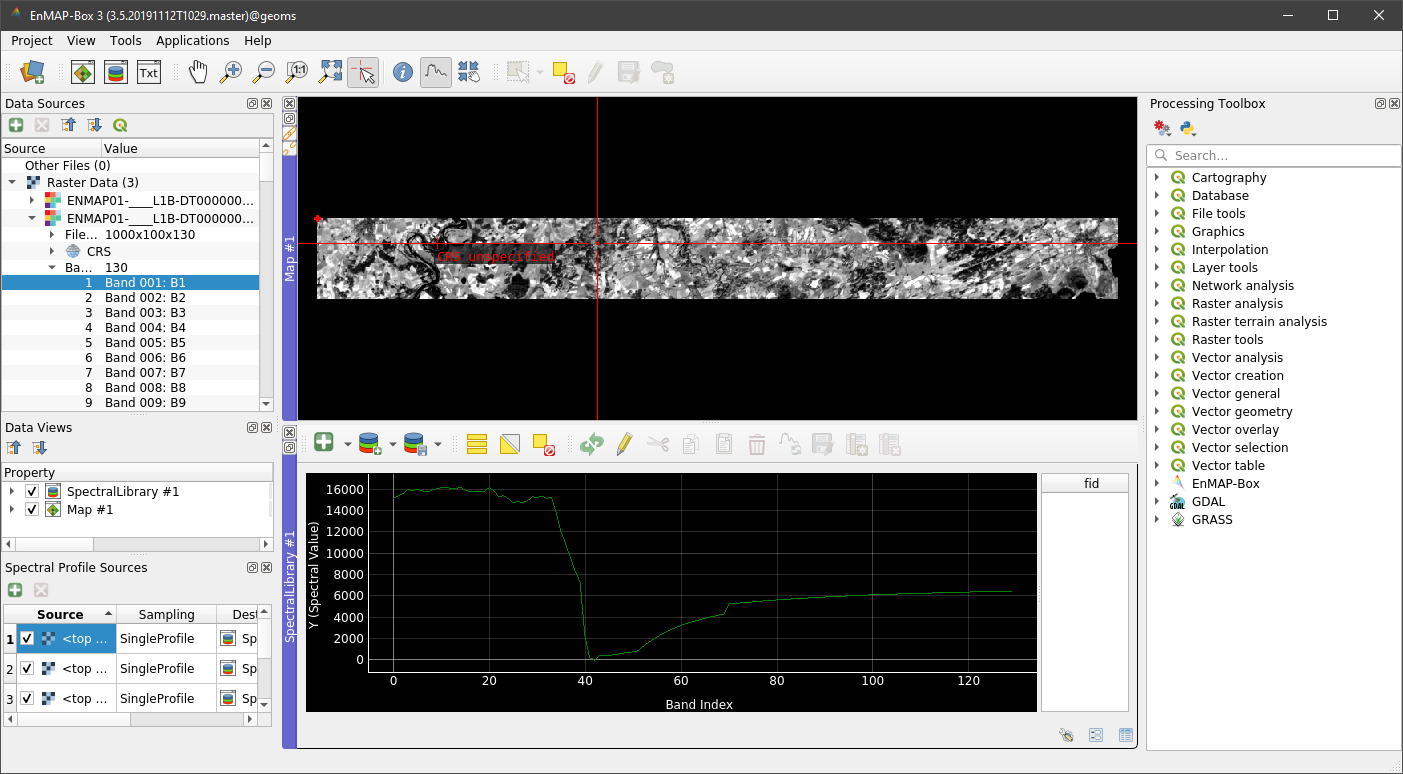
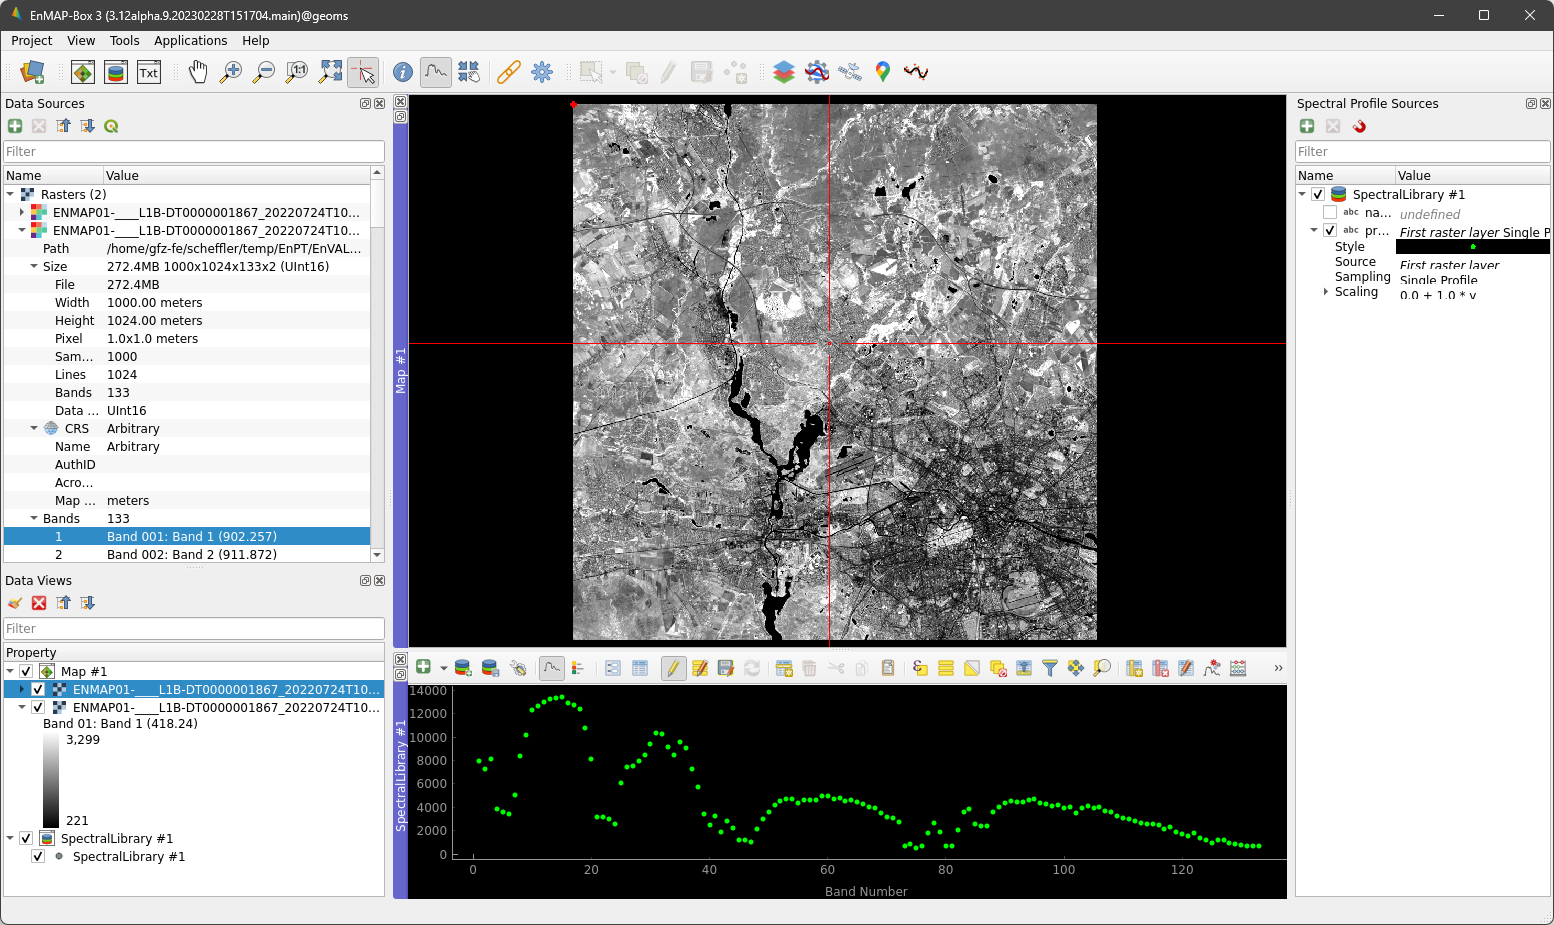
Update section about L1B data inspection.

diff --git a/docs/tutorial.rst b/docs/tutorial.rst
@@ -69,13 +69,15 @@ general handling instructions regarding the EnMAP-Box_ are given in `Exercise A 
 .. _`Exercise A of the EnMAP-Box tutorials`: https://enmap-box.readthedocs.io/en/latest/usr_section/application_tutorials/urban_unmixing/tutorial.html#exercise-a-urban-land-cover
 
 Unfold the respective entries in the **Data sources** panel to explore some metadata of both images. Both images have
-1000 x 100 pixels in x- and y-direction. The VNIR image contains 88 and the SWIR contains 130 spectral bands. Both
-images have no coordinate reference system (CRS). This is because EnMAP Level-1B data are provided in sensor geometry.
+1000 x 1024 pixels in x- and y-direction. The VNIR image contains 91 and the SWIR contains 133 spectral bands. Both
+images have no coordinate reference system (Arbitrary CRS). This is because EnMAP Level-1B data are provided in sensor
+geometry.
 
 To visualize the first spectral band of the VNIR hyperspectral image, unfold the **Bands** entry of the VNIR image in
-the **Data sources** tab, right-click on **Band 01:B1** and press **Open in new map**. Then click the Spectral Library
-icon in the EnMAP-Box toolbar to open a new Spectral Library window and click somewhere into the visualized image in
-the **Map** window. This makes the corresponding spectral signature show up in the **Spectral Library** window.
+the **Data sources** tab, right-click on **Band 01:Band 1 (418.24)** and press **Open in new map**. Then click the
+Spectral Library icon in the EnMAP-Box toolbar to open a new Spectral Library window and click somewhere into the
+visualized image in the **Map** window. This makes the corresponding spectral signature show up in the
+**Spectral Library** window.
 
 .. image:: img/tut__enmapbox_l1b_vnir.png
 
@@ -90,12 +92,13 @@ converted. Even if all bands were equally scaled, the spectra would not be compa
 because they are still affected by numerous spatio-temporal varying effects, e.g., originating from the atmospheric
 state at the acquisition time.
 
-Right-click into Map #1 and press **Link with other maps**. Then zoom into the image and compare the VNIR and SWIR
-images. At this point, a spatial offset between both images is clearly visible which means that the spectral
-information of both EnMAP detectors cannot be interpreted together. Panning through the image also reveals some
-vertical striping effects, i.e., dead image columns.
+Now open the VNIR and SWIR images in two different map views. Right-click into Map #1 and press
+**Link with other maps**. Then zoom into the image and compare the VNIR and SWIR images. At this point, a spatial
+offset between both images (around 20 pixels along-track and <1 pixel across-track) is clearly visible which means that
+the spectral information of both EnMAP detectors cannot be interpreted together. Panning through the image also reveals
+some vertical striping effects.
 
-.. image:: img/tut__enmapbox_l1b_vnir_swir_shift_deadpix.png
+.. image:: img/tut__enmapbox_l1b_vnir_swir_shift_striping.png
 
 To sum up, EnMAP Level-1B data cannot be directly used for downstream remote sensing applications due to the following
 reasons:
@@ -104,9 +107,17 @@ reasons:
     - images provided in sensor geometry, i.e., without coordinate reference system (CRS)
     - spectral information represents top-of-atmosphere radiance, separately scaled for each band
     - VNIR and SWIR images do not show the same spatial extent (offsets in along- and across-track direction)
-    - image artefacts such as vertical striping due to dead pixels
+    - image artefacts such as vertical striping
     - spectral information is affected by various spatio-temporal effects, e.g., originating from the atmospheric state
     - some sensor-induced effects that are not directly visible (spectral smile, keystone, ...)
+
+.. note::
+
+    The EnMAP-Box features a tool to import EnMAP Level-1B data
+    (:menuselection:`EnMAP-Box --> Project --> Add product --> EnMAP L1B`)
+    which directly applies scales and offsets to each band and adds some metadata such as central wavelength positions.
+    This is convenient as the data is directly shown in radiance units, however, users should keep in mind that the
+    actual (scaled) L1B pixel values are different.
 
 
 Generate Level-2A data using EnPT
